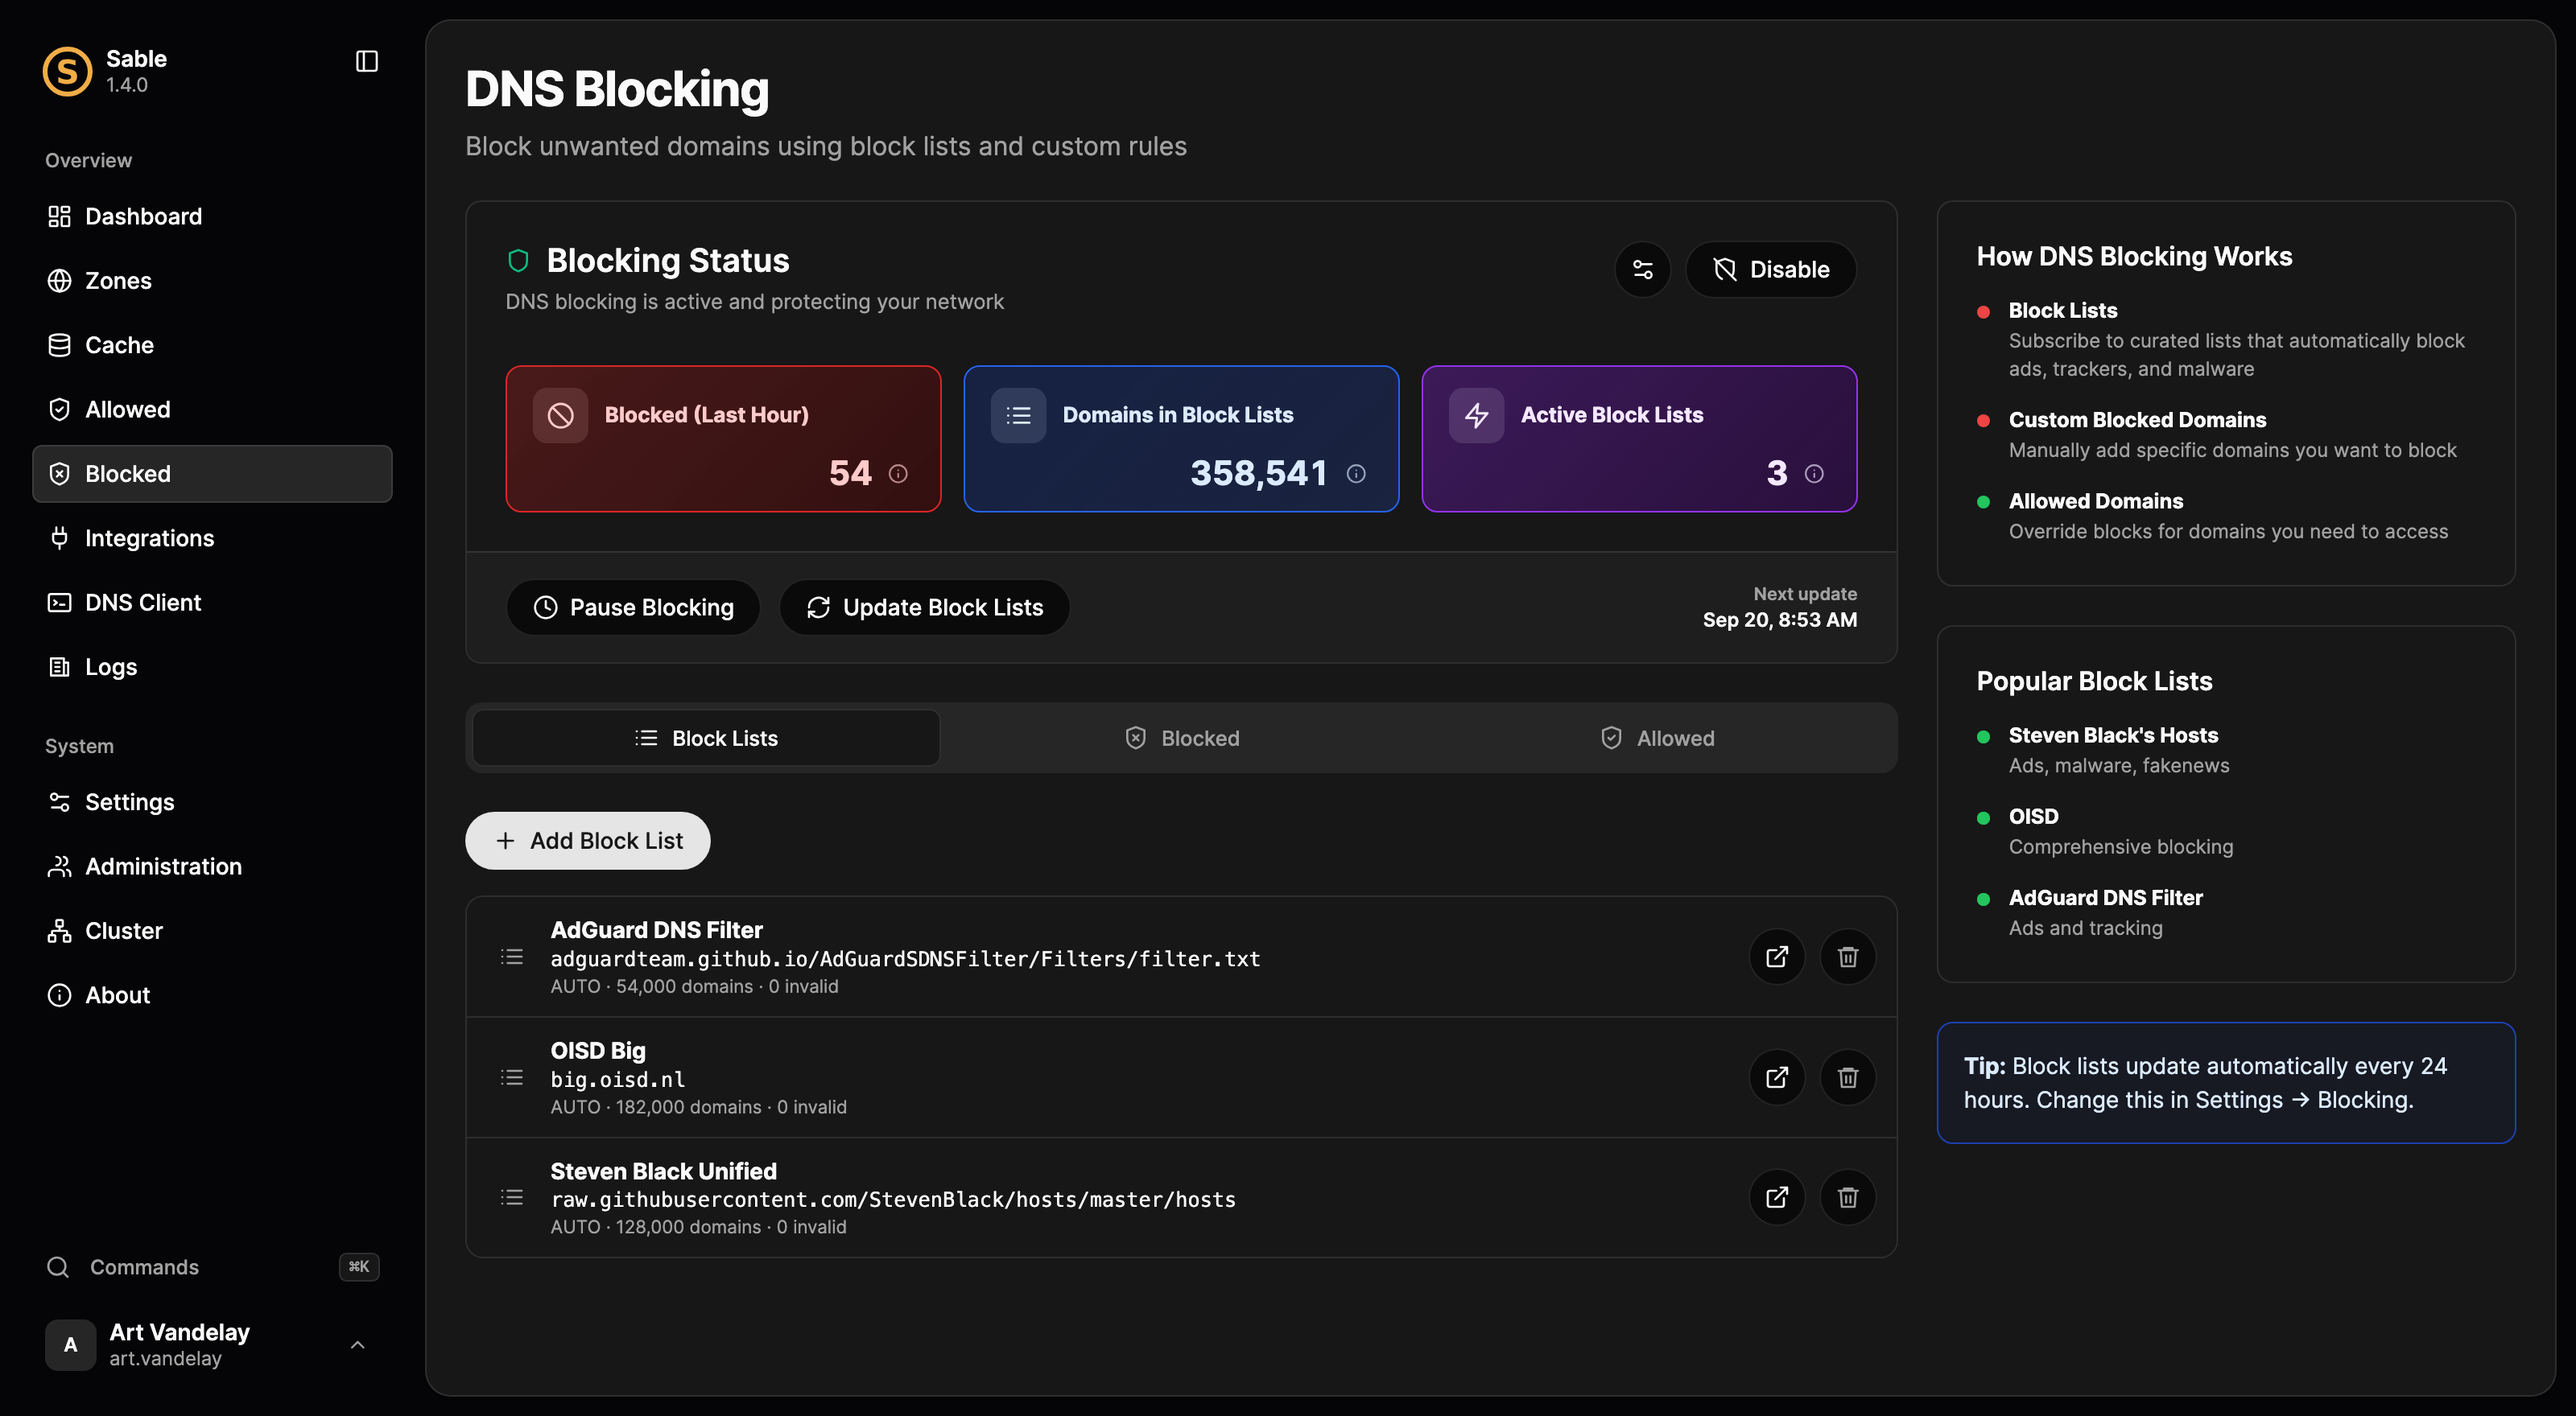
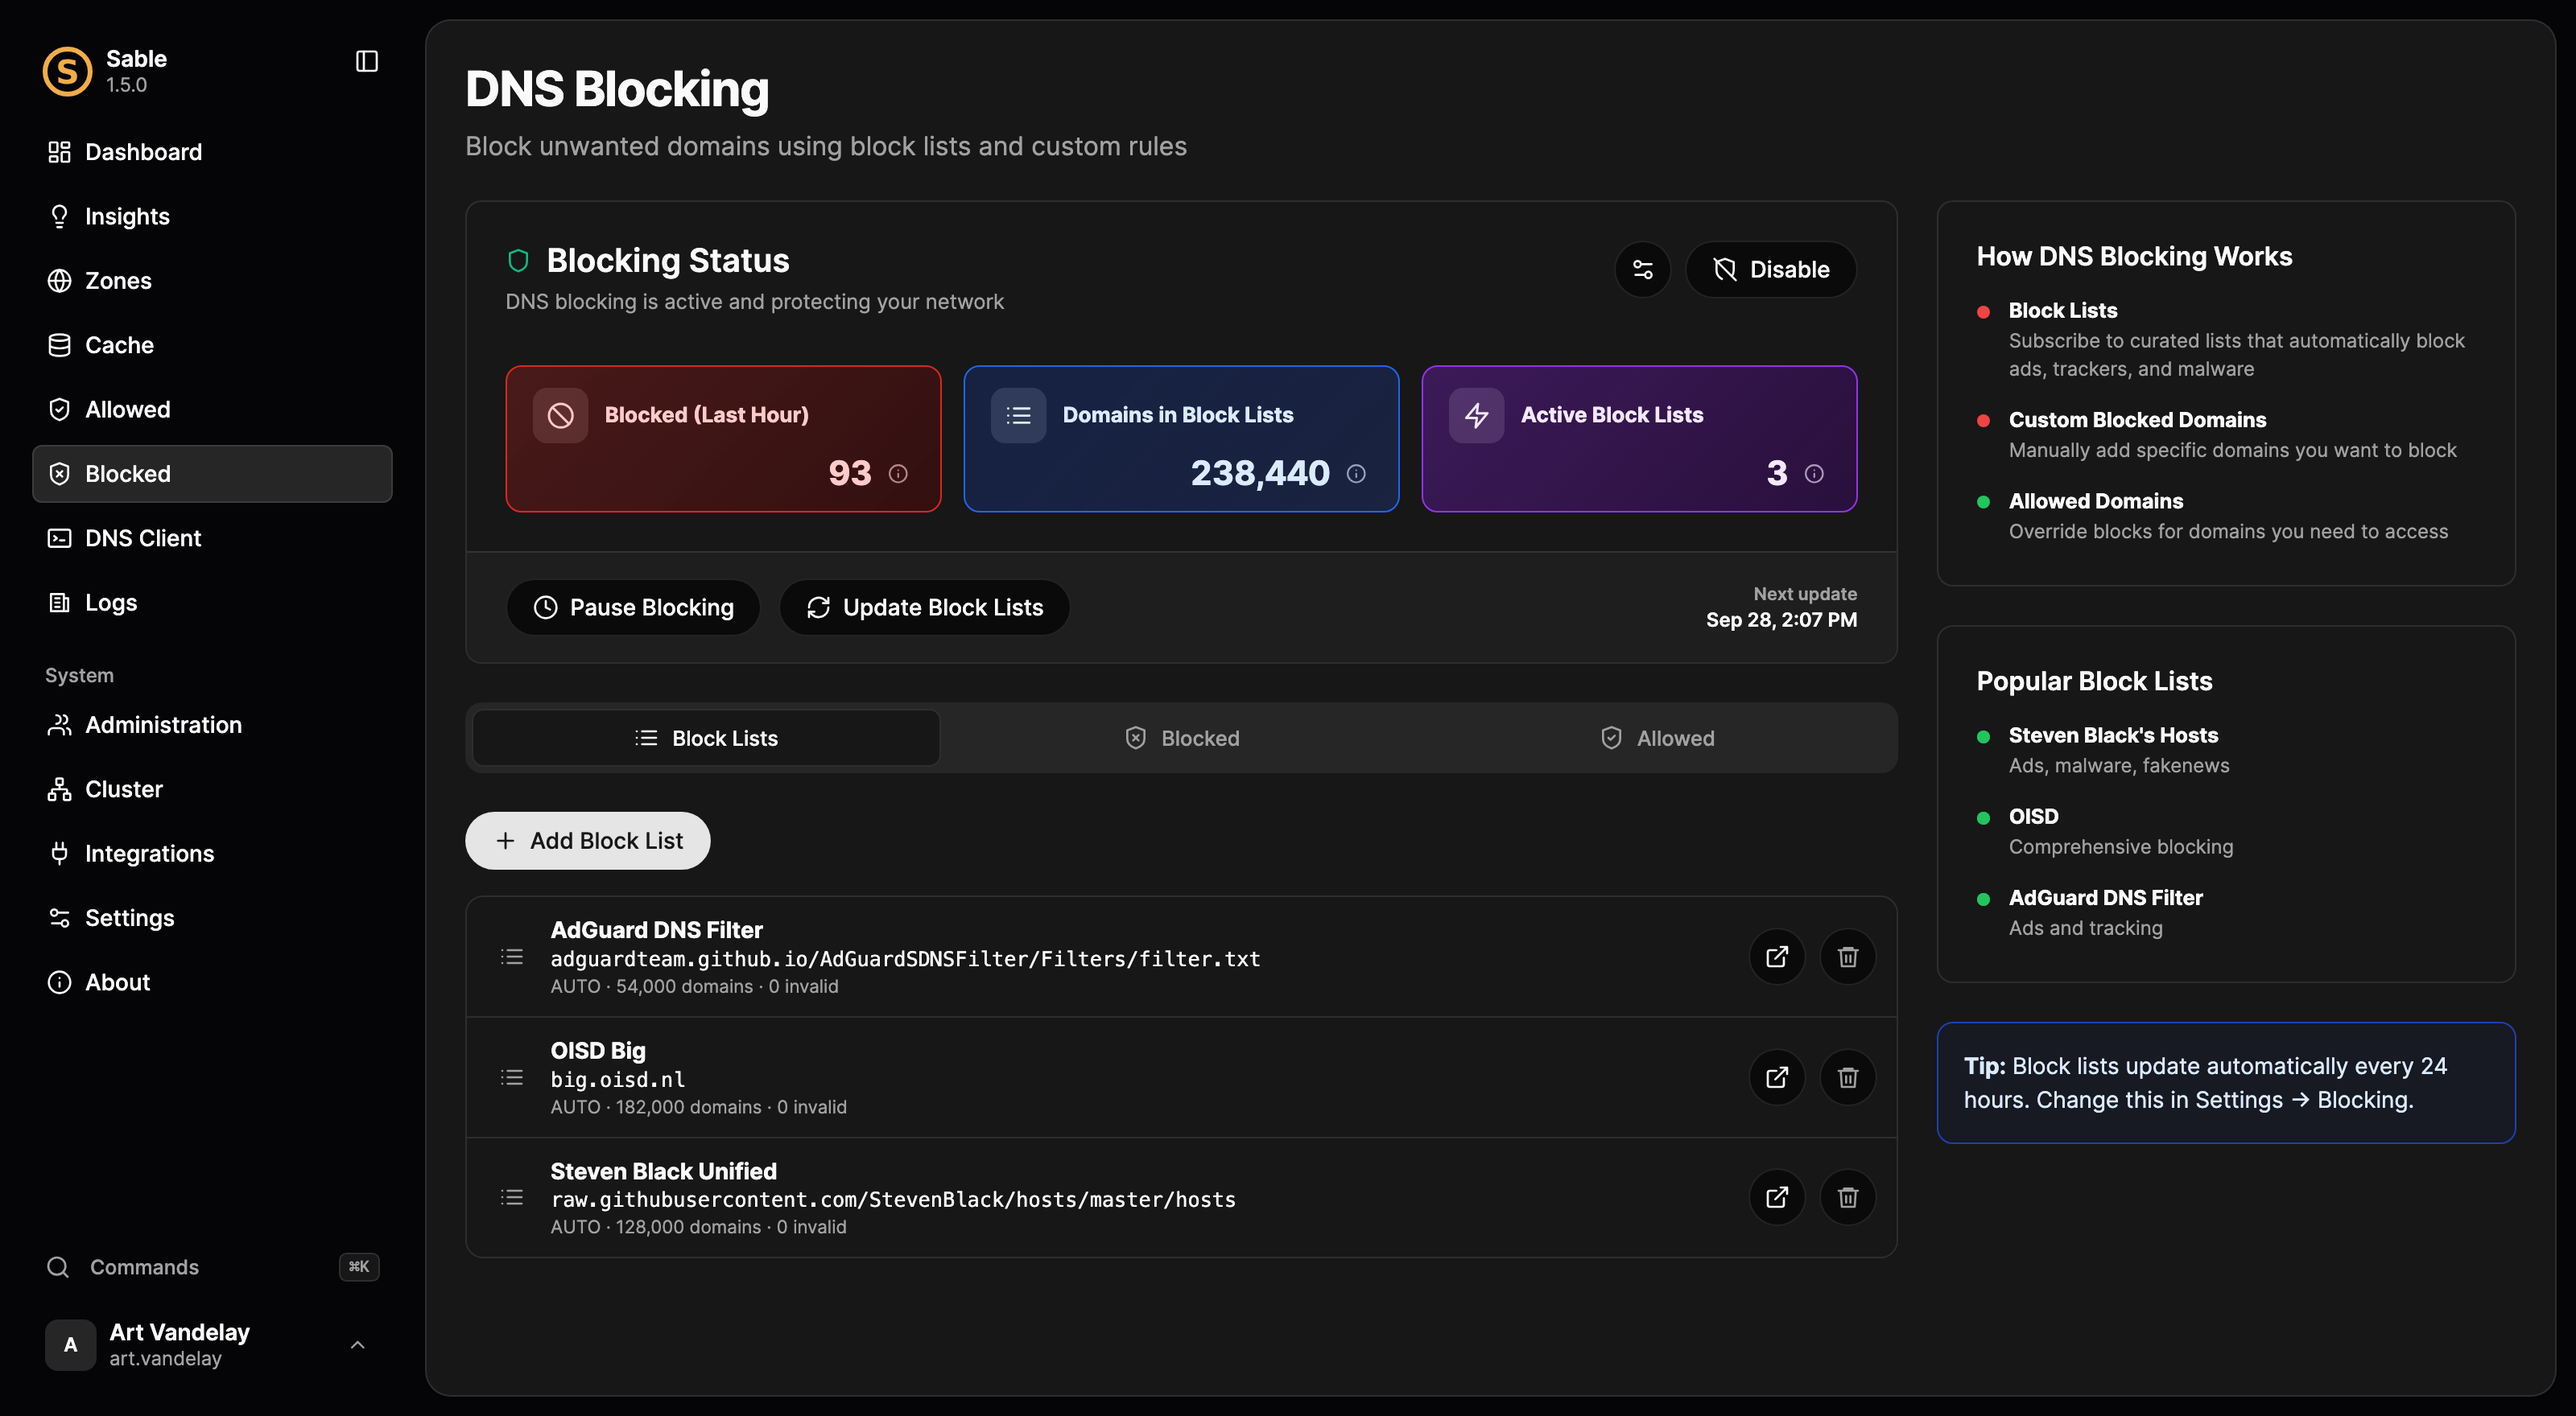
docs: refresh 1.5.0 demo screenshots

diff --git a/docs/guides/getting-started.md b/docs/guides/getting-started.md
@@ -58,7 +58,7 @@ sable query --transport tcp --server 192.0.2.53:53 example.com A
 
 A successful lookup returns an answer and a successful response code. Open **Logs → Queries** and confirm that the client, name, and result match your test. TCP matters too: DNS needs it for replies that do not fit in UDP.
 
-![Sable dashboard with query activity, response breakdowns, and client statistics](../assets/guide-screenshots/dashboard-full.webp "The dashboard gives you an overview after queries start arriving. Use the query log to verify an individual request. Sable 1.4.0 with demo data.")
+![Sable dashboard with query activity, response breakdowns, and client statistics](../assets/guide-screenshots/dashboard-full.webp "The dashboard gives you an overview after queries start arriving. Use the query log to verify an individual request. Sable 1.5.0 with demo data.")
 
 ## 4. Connect one test device
 

diff --git a/docs/clustering.md b/docs/clustering.md
@@ -150,7 +150,7 @@ The Cluster page refreshes role, connectivity, applied/current generation,
 generation lag, last contact, and last successful synchronization. It also
 links to each advertised console.
 
-![Cluster status showing member roles, generation lag, and synchronization health](assets/guide-screenshots/cluster-status.webp "Check role, generation lag, and last successful synchronization before maintenance. Sable 1.4.0 with demo data.")
+![Cluster status showing member roles, generation lag, and synchronization health](assets/guide-screenshots/cluster-status.webp "Check role, generation lag, and last successful synchronization before maintenance. Sable 1.5.0 with demo data.")
 
 The DNS client offers enrolled nodes as presets. A node preset queries
 `/dns-query` on that member's advertised HTTPS endpoint and reuses the

diff --git a/docs/index.md b/docs/index.md
@@ -25,7 +25,7 @@ These guides cover Sable 1.5.0. [Download the release](https://github.com/drudge
 
 - [Migrate from Technitium](guides/technitium-migration.md) into a new instance or cluster using zone files or DNS transfers.
 
-Console screenshots are captured from Sable 1.4.0 using the disposable Vandelay demo deployment.
+Console screenshots are captured from Sable 1.5.0 using the disposable Vandelay demo deployment.
 
 ## Make DNS work for your network
 
